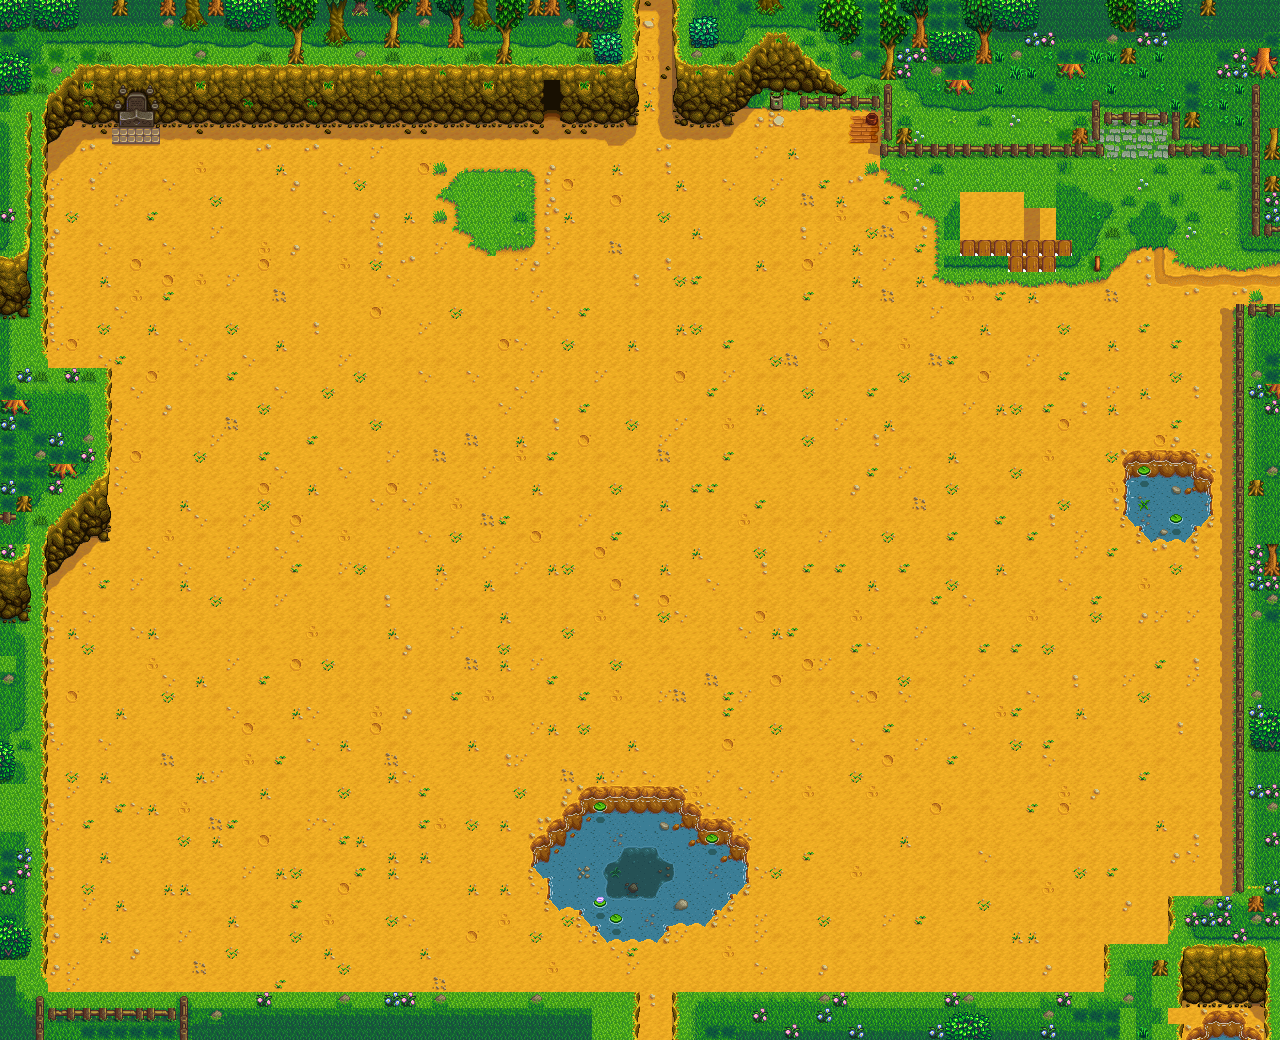
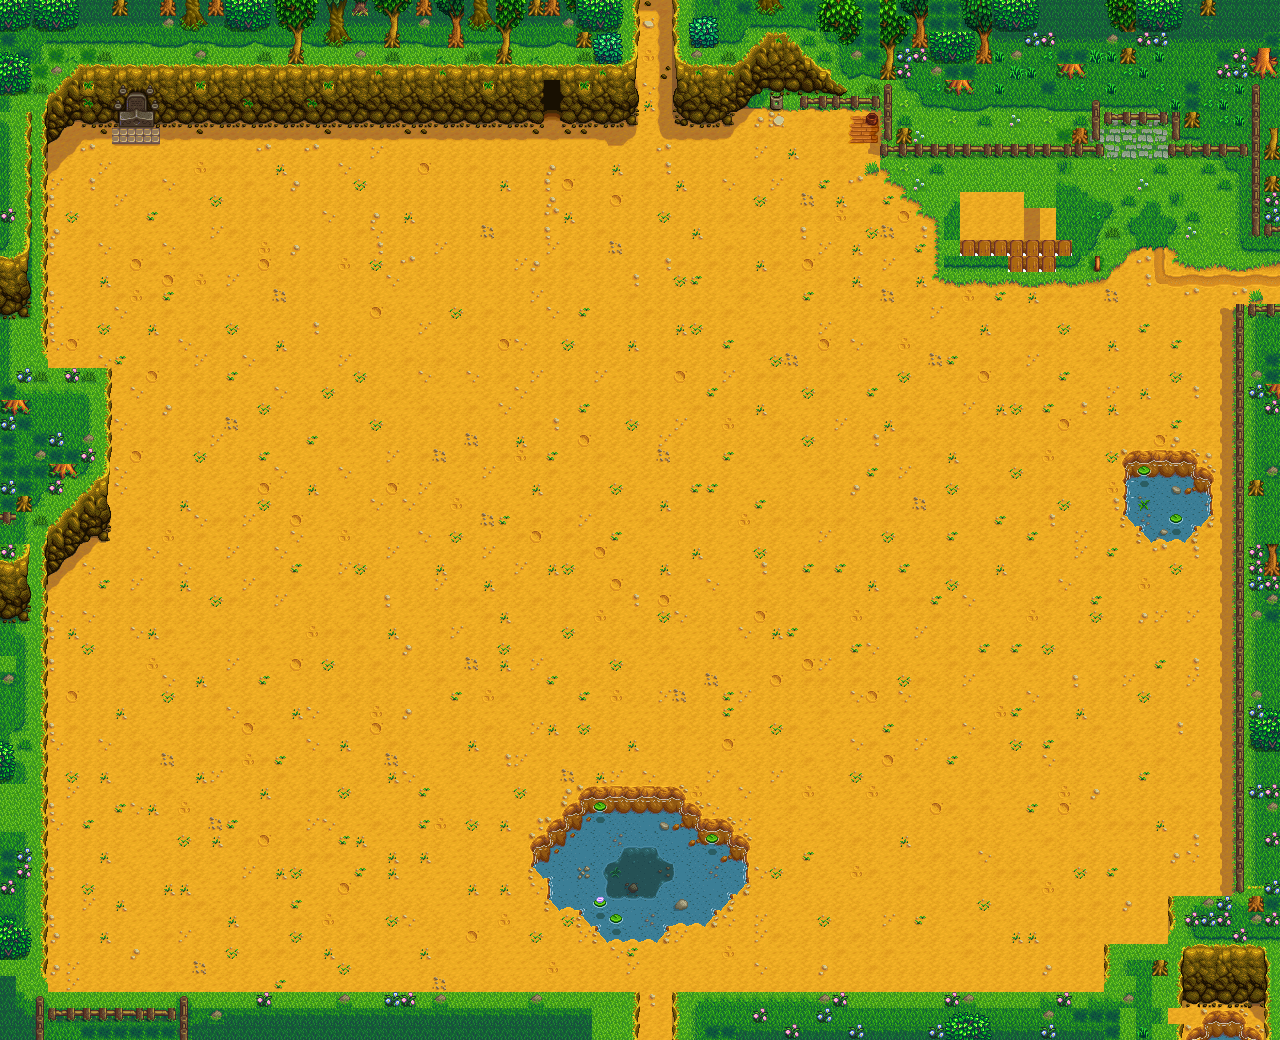
Update entity placement restrictions for standard farm (#26)
- Set `disallowedCoordinates` and `disallowedTypesMap` for standard farm layout
- Update save data deserializer to skip entities that don't respect layout
- Update standard-farm-bg-spring.png

Changed region(s): [[0.3438, 0.1538, 0.4375, 0.2462]]

diff --git a/common/editor-engine/src/main/kotlin/io/stardewvalleydesigner/engine/layout/layouts/StandardFarm.kt b/common/editor-engine/src/main/kotlin/io/stardewvalleydesigner/engine/layout/layouts/StandardFarm.kt
@@ -16,21 +16,157 @@
 
 package io.stardewvalleydesigner.engine.layout.layouts
 
-import io.stardewvalleydesigner.engine.entity.FloorFurnitureType
-import io.stardewvalleydesigner.engine.entity.ObjectType
-import io.stardewvalleydesigner.engine.geometry.rectOf
+import io.stardewvalleydesigner.engine.entity.*
+import io.stardewvalleydesigner.engine.geometry.*
 import io.stardewvalleydesigner.engine.layout.Layout
 import io.stardewvalleydesigner.engine.layout.LayoutType
 
 
-internal val StandardFarmLayout: Layout = Layout(
-    type = LayoutType.StandardFarm,
-    size = rectOf(w = 80, h = 65),
-    disallowedTypes = setOf(
-        FloorFurnitureType,
-        ObjectType.FurnitureType.HouseFurnitureType,
-        ObjectType.FurnitureType.IndoorFurnitureType,
-    ),
-    disallowedTypesMap = emptyMap(),
-    disallowedCoordinates = emptySet(),
-)
+internal val StandardFarmLayout: Layout = run {
+    val disallowedCoordinates: Set<Coordinate> = buildSet {
+        // Farmhouse
+        this += buildList {
+            addAll(rect(59..67, 11..16))
+            removeAll(row(60..62, 15))
+        }
+
+        // Borders
+        this += buildList {
+            addAll(rect(0..39, 0..7) - xy(34, 7))
+            addAll(row(0..3, 8))
+            addAll(rect(0..2, 9..61))
+            addAll(rect(3..6, 23..33))
+            addAll(listOf(xy(3, 34), xy(4, 34), xy(3, 35)))
+            addAll(rect(0..39, 62..64))
+            addAll(rect(42..79, 62..64))
+            addAll(rect(69..79, 59..61))
+            addAll(rect(73..79, 56..58))
+            addAll(rect(77..79, 19..55))
+            addAll(rect(42..79, 0..6))
+            addAll(row(42..45, 7))
+            addAll(row(55..79, 7))
+            addAll(rect(55..68, 8..9))
+            addAll(rect(73..79, 8..9))
+            addAll(rect(78..79, 10..14))
+        }
+
+        // Pet bowl
+        this += xy(54, 7)
+
+        // Mailbox
+        this += xy(68, 16)
+
+        // Small lake
+        this += buildList {
+            addAll(row(70..74, 28))
+            addAll(rect(70..75, 29..32))
+            addAll(row(71..74, 33))
+        }
+
+        // Big lake
+        this += buildList {
+            addAll(row(36..42, 49))
+            addAll(row(35..43, 50))
+            addAll(row(34..45, 51))
+            addAll(rect(33..46, 52..54))
+            addAll(row(34..46, 55))
+            addAll(row(34..45, 56))
+            addAll(row(36..44, 57))
+            addAll(row(37..41, 58))
+        }
+    }
+
+
+    return@run Layout(
+        type = LayoutType.StandardFarm,
+        size = rectOf(w = 80, h = 65),
+        disallowedTypes = setOf(
+            FloorFurnitureType,
+            ObjectType.FurnitureType.HouseFurnitureType,
+            ObjectType.FurnitureType.IndoorFurnitureType,
+        ),
+        disallowedTypesMap = buildMap {
+            val standard = setOf(EntityWithoutFloorType.BuildingType, EntityWithoutFloorType.CropType)
+            val buildable = standard - setOf(EntityWithoutFloorType.BuildingType)
+            val noPlaceable = standard + ObjectType.all
+
+            // Top-left area
+            this += row(4..39, 8) withData buildable
+            this += row(7..9, 8) withData standard
+            this += xy(34, 7) to standard
+            this += listOf(xy(3, 9), xy(4, 9), xy(3, 10)) withData buildable
+
+            // Rock shade on the left
+            this += listOf(xy(5, 34), xy(4, 35), xy(3, 36)) withData buildable
+
+            // Top area
+            this += xy(40, 0) to buildable
+            this += xy(40, 1) to standard
+            this += col(41, 0..8) withData buildable
+            this += row(42..45, 8) withData buildable
+            this += xy(46, 7) to buildable
+            this += xy(48, 7) to standard
+
+            // Pet area
+            this += listOf(xy(53, 7), xy(53, 8), xy(54, 8)) withData noPlaceable
+
+            // Weird shade tile
+            this += xy(54, 9) to standard
+
+            // Farmhouse area
+            this += buildList {
+                addAll(row(54..77, 10))
+                addAll(row(55..77, 11))
+                addAll(row(56..77, 12))
+                addAll(row(57..77, 13))
+                addAll(row(58..77, 14))
+                addAll(rect(58..79, 15..17))
+                removeAll(listOf(xy(71, 16), xy(70, 17), xy(71, 17)))
+            } withData buildable
+            this += row(60..62, 15) withData standard // Farmhouse
+            this += xy(64, 17) to noPlaceable // Farmhouse
+            this += rect(69..72, 8..9) withData noPlaceable // Spouse patio
+            this += rect(69..72, 10..13) withData standard // Under the spouse patio
+            this += xy(68, 14) to noPlaceable // Above the mailbox
+            // Path to shipment chest
+            this += buildList {
+                addAll(listOf(xy(71, 15), xy(72, 15), xy(72, 16)))
+                addAll(row(72..79, 17))
+            } withData standard
+            this += xy(78, 18) to buildable // Weird grass tile
+
+            // Shade line on the right
+            this += col(76, 19..55) withData buildable
+
+            // Remove disallowed coordinates
+            this -= disallowedCoordinates
+        },
+        disallowedCoordinates = disallowedCoordinates
+    )
+}
+
+
+private infix fun Collection<Coordinate>.withData(noPlaceable: Set<EntityType>) = associateWith {
+    noPlaceable
+}
+
+
+private fun rect(xs: IntRange, ys: IntRange) = buildList {
+    for (x in xs) {
+        for (y in ys) {
+            add(xy(x, y))
+        }
+    }
+}
+
+private fun row(xs: IntRange, y: Int) = buildList {
+    for (x in xs) {
+        add(xy(x, y))
+    }
+}
+
+private fun col(x: Int, ys: IntRange) = buildList {
+    for (y in ys) {
+        add(xy(x, y))
+    }
+}

diff --git a/common/sv-save/src/main/kotlin/io/stardewvalleydesigner/save/SaveDataSerializers.kt b/common/sv-save/src/main/kotlin/io/stardewvalleydesigner/save/SaveDataSerializers.kt
@@ -16,10 +16,9 @@
 
 package io.stardewvalleydesigner.save
 
+import io.stardewvalleydesigner.LoggerUtils.logger
 import io.stardewvalleydesigner.engine.*
-import io.stardewvalleydesigner.engine.layers.layered
-import io.stardewvalleydesigner.engine.layout.LayoutType
-import io.stardewvalleydesigner.engine.layout.LayoutsProvider
+import io.stardewvalleydesigner.engine.layout.*
 import io.stardewvalleydesigner.save.mappers.toPlacedEntityOrNull
 import io.stardewvalleydesigner.save.models.SaveGame
 import kotlinx.serialization.decodeFromString
@@ -46,36 +45,43 @@ object SaveDataSerializers {
         val buildings = farm.buildings.filter { it.buildingType in buildingsByType }
 
         return buildList {
-            this += editorEngineOf(LayoutsProvider.layoutOf(LayoutType.StandardFarm)).apply {
-                putAll(
-                    run {
-                        val furniture = farm.furniture.mapNotNull { it.toPlacedEntityOrNull() }
-                        val objects = farm.objects.mapNotNull { it.value.obj.toPlacedEntityOrNull() }
-                        val flooring = farm.terrainFeatures.mapNotNull { it.toPlacedEntityOrNull() }
+            this += run {
+                val layout = LayoutsProvider.layoutOf(LayoutType.StandardFarm)
 
-                        (furniture + objects + flooring).filter { it.place.y >= 0 }.layered()
+                editorEngineOf(layout).apply {
+                    val (es, failedEs) = buildList {
+                        addAll(farm.furniture.mapNotNull { it.toPlacedEntityOrNull() })
+                        addAll(farm.objects.mapNotNull { it.value.obj.toPlacedEntityOrNull() })
+                        addAll(farm.terrainFeatures.mapNotNull { it.toPlacedEntityOrNull() })
+                        addAll(farm.buildings.mapNotNull { it.toPlacedEntityOrNull() })
+                    }.partition { it respectsLayout layout }
+
+                    if (failedEs.isNotEmpty()) {
+                        logger.warn { failedEs }
                     }
-                )
-                putAll(
-                    farm.buildings.mapNotNull { it.toPlacedEntityOrNull() }.layered()
-                )
+
+                    for (e in es) put(e)
+                }
             }
 
             this += buildings.map { building ->
                 val layout = LayoutsProvider.layoutOf(buildingsByType.getValue(building.buildingType))
 
                 editorEngineOf(layout).apply {
-                    putAll(
+                    val (es, failedEs) = buildList {
                         if (building.indoors != null) {
-                            val furniture = building.indoors.furniture.mapNotNull { it.toPlacedEntityOrNull() }
-                            val objects = building.indoors.objects.mapNotNull { it.value.obj.toPlacedEntityOrNull() }
-                            val flooring = building.indoors.terrainFeatures.mapNotNull { it.toPlacedEntityOrNull() }
+                            addAll(building.indoors.furniture.mapNotNull { it.toPlacedEntityOrNull() })
+                            addAll(building.indoors.objects.mapNotNull { it.value.obj.toPlacedEntityOrNull() })
+                            addAll(building.indoors.terrainFeatures.mapNotNull { it.toPlacedEntityOrNull() })
+                        }
+                    }.partition { it respectsLayout layout }
 
-                            (furniture + objects + flooring).filter { it.place.y >= 0 }
-                        } else {
-                            emptyList()
-                        }.layered()
-                    )
+                    if (failedEs.isNotEmpty()) {
+                        logger.warn { failedEs }
+                    }
+
+                    for (e in es) put(e)
+
                     wallpaper = building.indoors?.wallPaper?.int?.toUByte()?.run(::Wallpaper)
                     flooring = building.indoors?.floor?.int?.toUByte()?.run(::Flooring)
                 }
